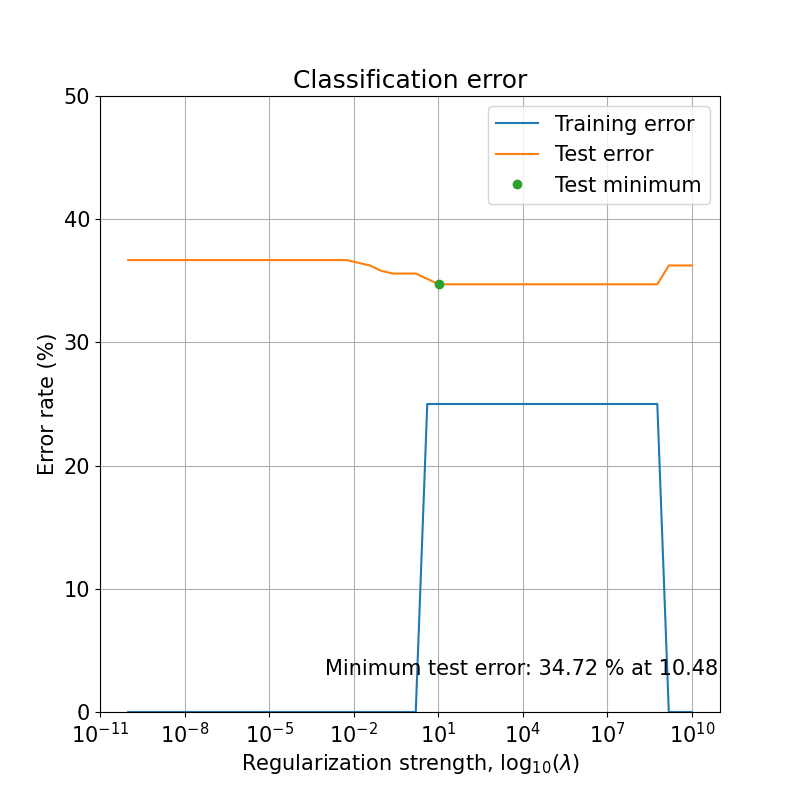
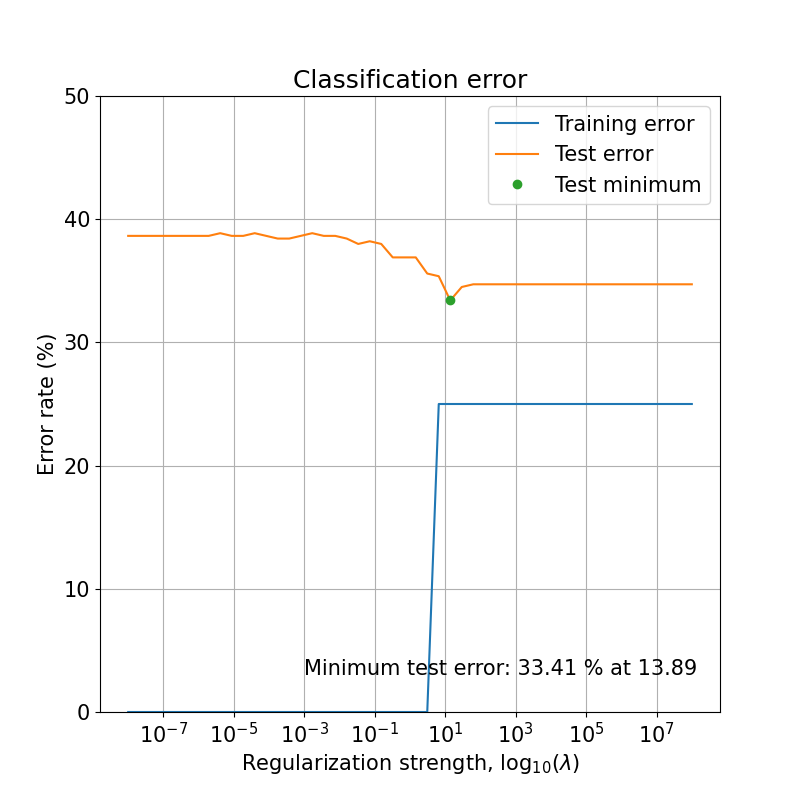
plots

diff --git a/Projekt 2/Logistic_regression._reguralizedpy.py b/Projekt 2/Logistic_regression._reguralizedpy.py
@@ -14,14 +14,9 @@ from import_HD_data import *
 font_size = 15
 plt.rcParams.update({'font.size': font_size})
 
-
-# Create crossvalidation partition for evaluation
-# using stratification and 95 pct. split between training and test 
-#K = 20
+#Using 0.99 of the data
 X_train, X_test, y_train, y_test = train_test_split(X, y, test_size=0.99, stratify=y)
-# Try to change the test_size to e.g. 50 % and 99 % - how does that change the 
-# effect of regularization? How does differetn runs of  test_size=.99 compare 
-# to eachother?
+
 
 # Standardize the training and set set based on training set mean and std
 mu = np.mean(X_train, 0)
@@ -35,8 +30,8 @@ X_test = (X_test - mu) / sigma
 print(X_test)
 # Fit regularized logistic regression model to training data to predict 
 # the type of wine
-lambda_interval = np.logspace(-10, 10, 50)
-#print(lambda_interval)
+lambda_interval = np.logspace(-8, 8, 50)
+print('lambda interval:',lambda_interval)
 train_error_rate = np.zeros(len(lambda_interval))
 test_error_rate = np.zeros(len(lambda_interval))
 coefficient_norm = np.zeros(len(lambda_interval))
@@ -86,4 +81,4 @@ plt.savefig('l2norm_logreg.png')
 plt.show()    
 
 
-print('Ran Exercise 9.1.1')
+print('Ran Logreg-regularized')
